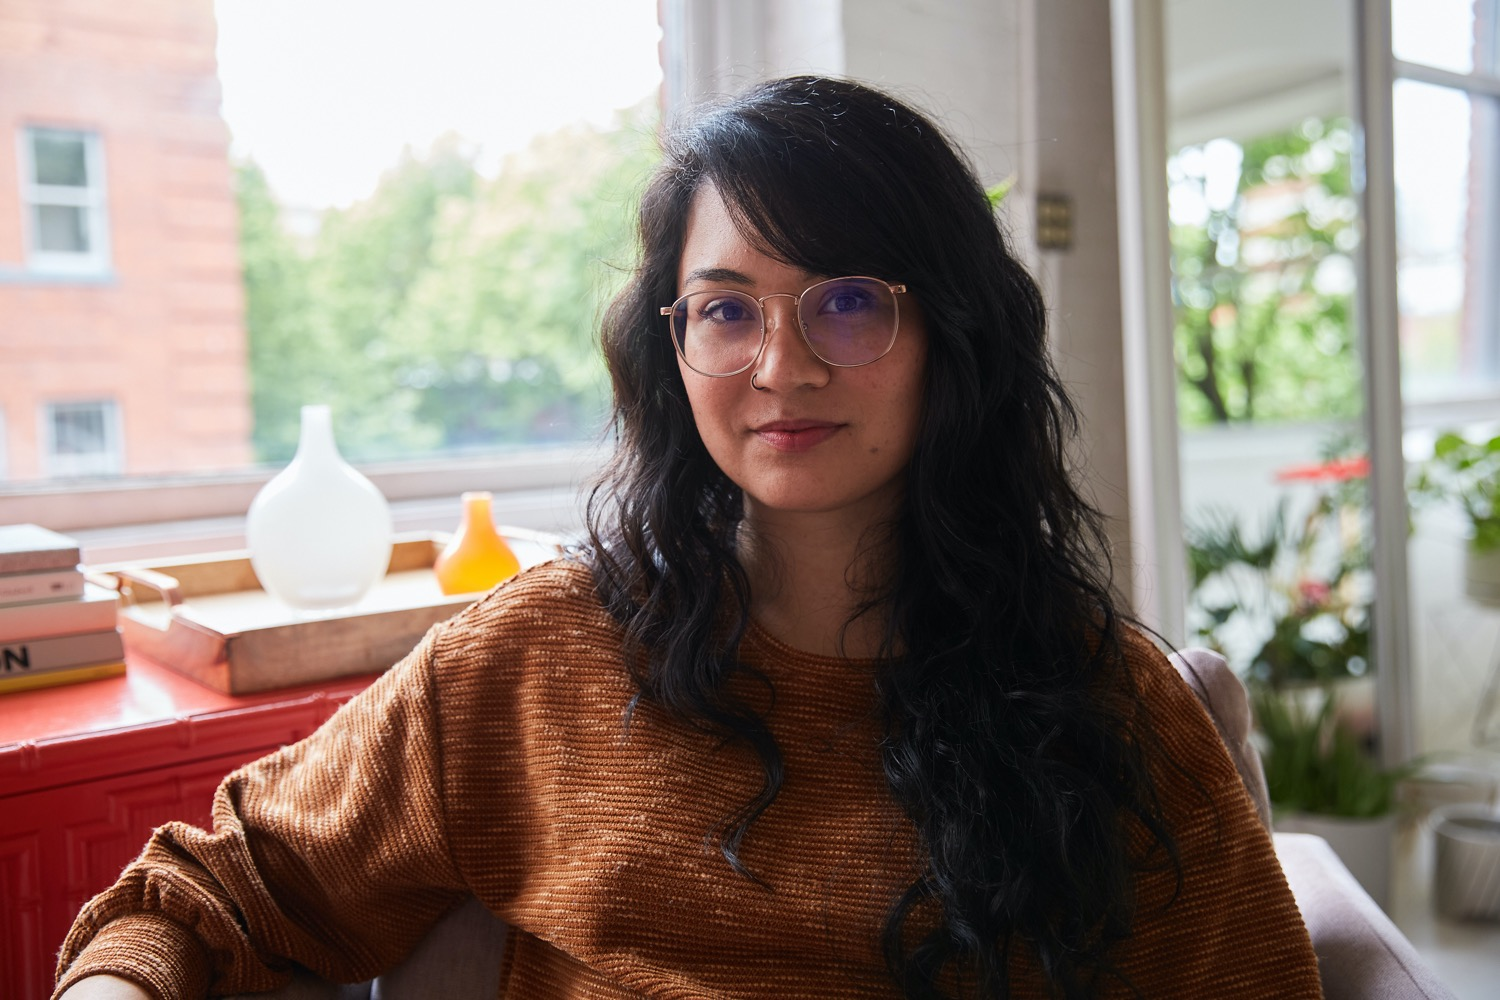
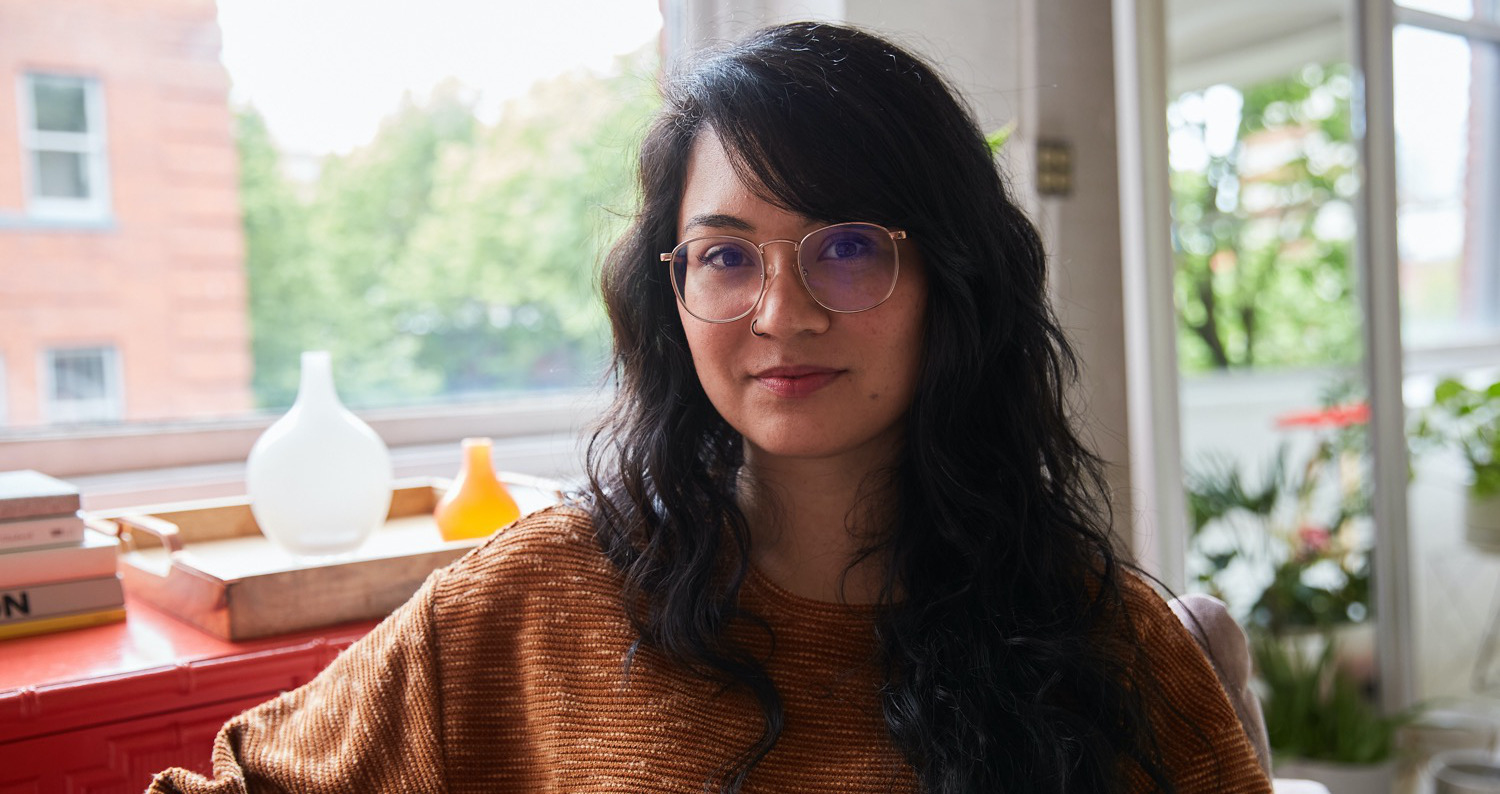
something

diff --git a/src/components/about/About.css b/src/components/about/About.css
@@ -63,21 +63,26 @@ html {
                     .crop {
                         width: max-content;
                         height: 50vh;
+                        width: 60vw;
                         position: relative;
                         overflow: hidden;
+                        background-image: url('../../../public/images/headshot.jpg');
+                        background-size: cover;
+                        background-repeat: no-repeat;
+                        background-position: top;
                         /* border-radius: 50%; */
                         box-shadow: rgba(0, 0, 0, 0.4) 0px 50px 100px -20px, 
                         rgba(0, 0, 0, 0.7) 0px 30px 60px -30px, 
                         rgba(0, 0, 0, 0.7) 0px -2px 6px 0px inset;
+
                         
-                        .headshot {
+                        /* .headshot {
                             display: inline-block;
-                            /* margin-left: -37%; */
                             margin-top: -3%;
-                            height: 140%;
+                            height: 130%;
                             width: auto;
                             opacity: 0.9;
-                        }
+                        } */
                     }
 
                 .description {

diff --git a/src/components/about/About.jsx b/src/components/about/About.jsx
@@ -2,7 +2,7 @@
 import React, { useRef } from 'react';
 import { useLocation } from 'react-router-dom';
 import styles from './About.css';
-import headshot from '../../../public/images/headshot.jpg';
+// import headshot from '../../../public/images/headshot.jpg';
 import { Socials } from '../socials/Socials';
 import { ScrollTwo } from '../scroll/ScrollTwo';
 
@@ -24,12 +24,12 @@ export const About = () => {
         <section className={styles.aboutRightSection}>
           <section className={styles.rightTop}>
             <div className={styles.crop}>
-              <img
+              {/* <img
                 className={styles.headshot} 
                 src={headshot}
                 alt="Jena headshot"
                 height="50%"
-                width="auto"/>
+                width="auto"/> */}
             </div>
 
             <div className={styles.description}>

diff --git a/src/components/header/Header.css b/src/components/header/Header.css
@@ -102,7 +102,8 @@
    }
 }
 
-@media (min-width: 1500px) {
+
+@media (max-width: 1500px) {
    .headerContainer {
 
       .headerRight {
@@ -118,7 +119,7 @@
    }
 }
 
-@media (min-width: 1300px) {
+@media (max-width: 1300px) {
    .headerContainer {
 
       .headerRight {
@@ -134,7 +135,7 @@
    }
 }
 
-@media (min-width: 1027px) {
+@media (max-width: 1027px) {
    .headerContainer {
 
       .headerRight {
@@ -150,7 +151,7 @@
    }
 }
 
-@media (min-width: 900px) {
+@media (max-width: 900px) {
    .headerContainer {
 
       .headerRight {
@@ -170,7 +171,7 @@
    }
 }
 
-@media (min-width: 700px) {
+@media (max-width: 700px) {
    .headerContainer {
 
       .headerRight {

diff --git a/src/components/app/App.css b/src/components/app/App.css
@@ -9,7 +9,8 @@
 body {
     background: linear-gradient(360deg, #0b0433 10%, #000000 100%);
     min-height: 90vh;
-    width: 99.5%;
+    width: 98vw;
+    min-width: -webkit-fill-available;
     margin: 10vh 0 0 0;
     padding: 0;
 }

diff --git a/src/components/header/burger/Burger.css b/src/components/header/burger/Burger.css
@@ -117,7 +117,7 @@
   }
 
   .burgerOpen {
-    margin-bottom: -0.5vh;
+    margin-bottom: -1vh;
     margin-left: 2em;
     width: 11vw;
 
